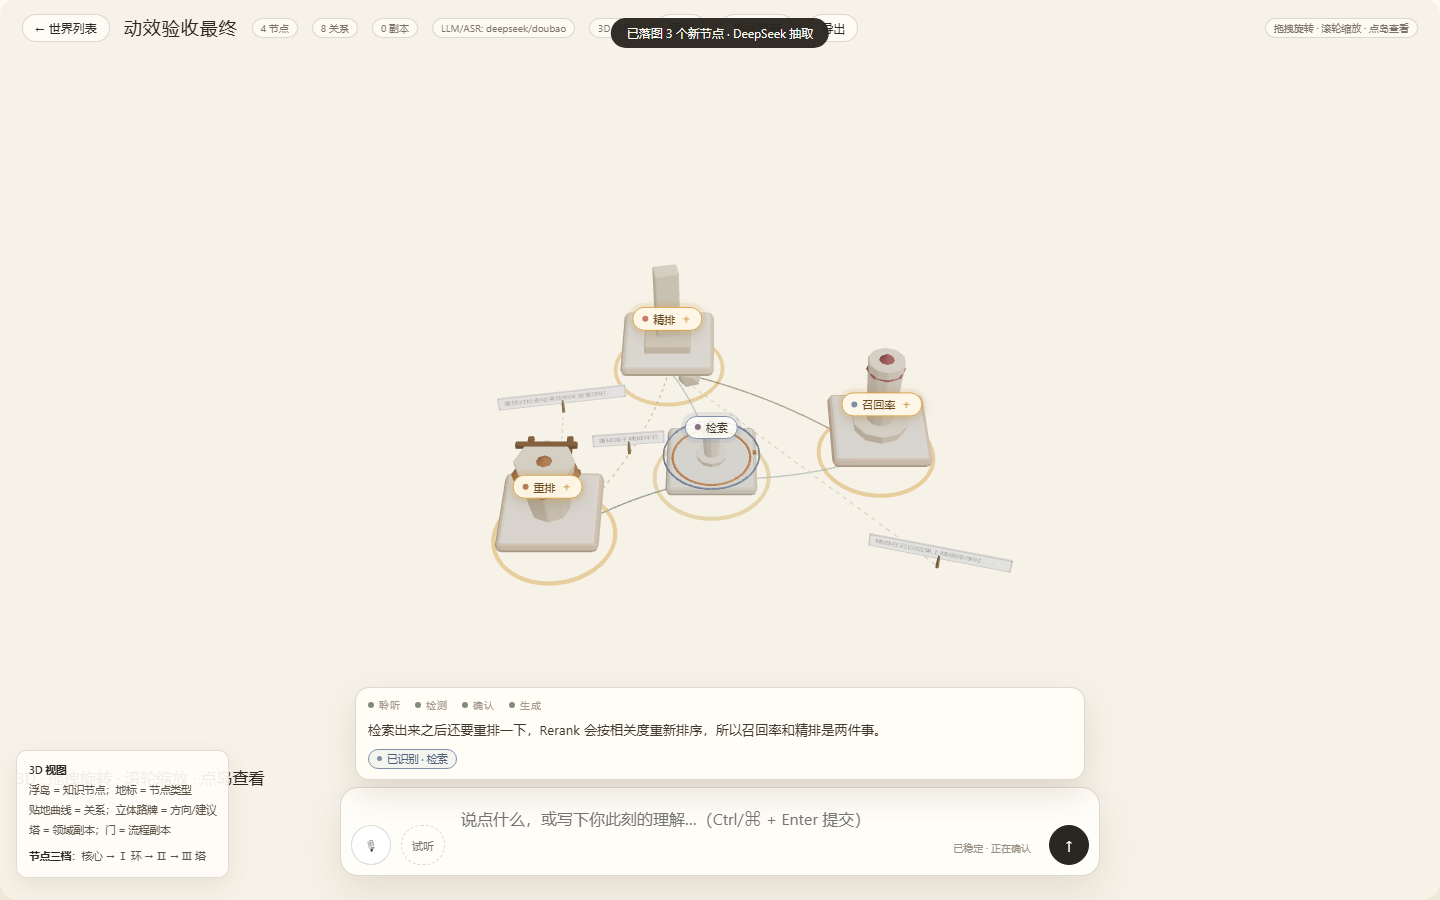
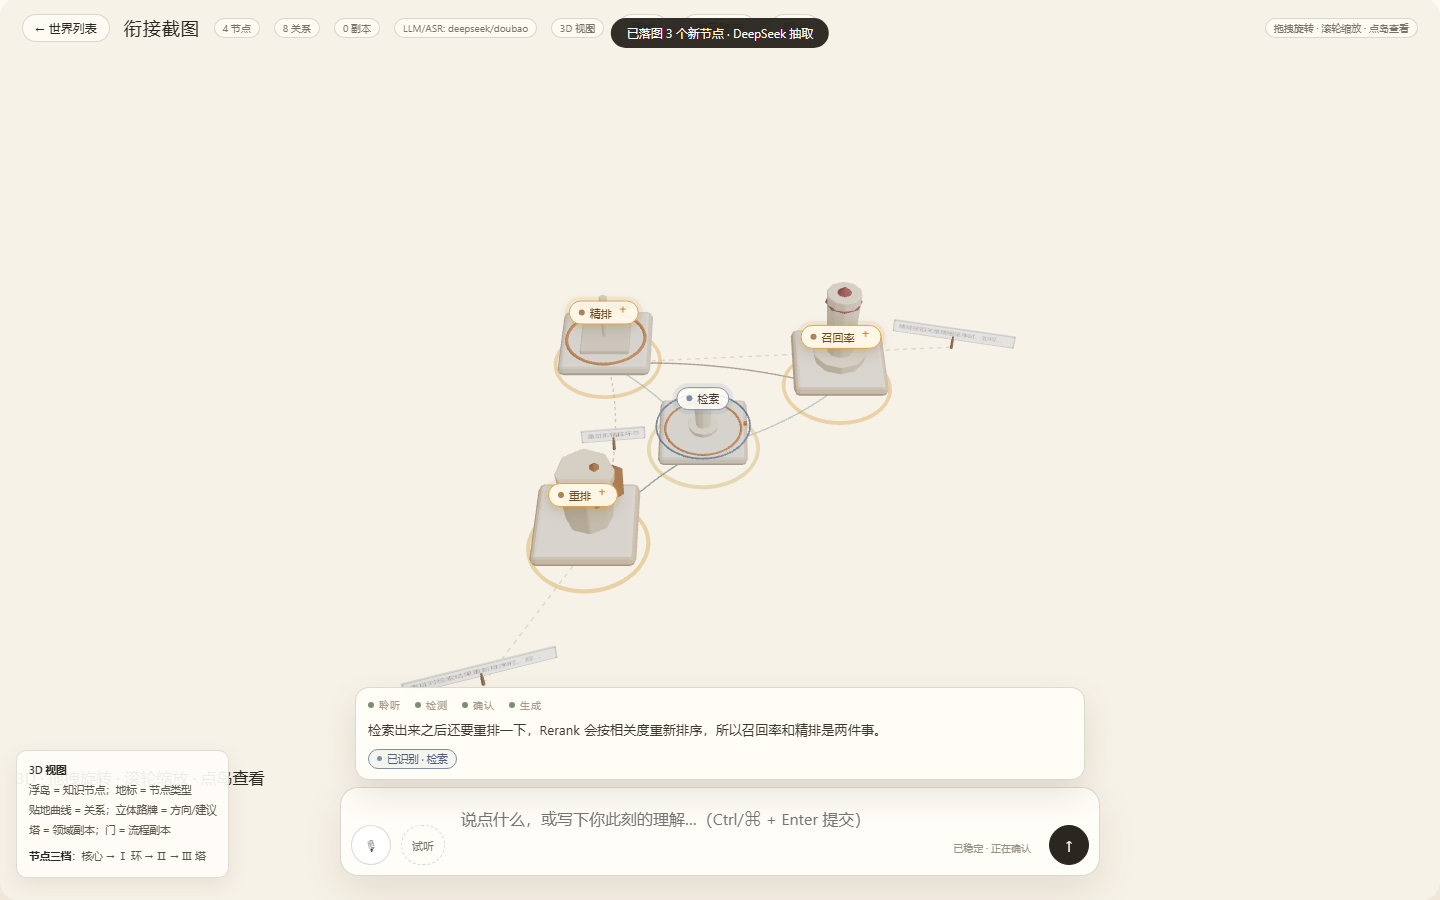
fix(ui): 候选 ghost 到新节点的起飞/落位衔接动画

diff --git a/web/src/components/World3D.tsx b/web/src/components/World3D.tsx
@@ -1,4 +1,4 @@
-import { Suspense, useEffect, useMemo, useRef, useState } from "react";
+import { Suspense, useEffect, useMemo, useRef, useState } from "react";
 import { Canvas, useFrame, useThree } from "@react-three/fiber";
 import { Html, Line, OrbitControls, useGLTF } from "@react-three/drei";
 import * as THREE from "three";
@@ -51,34 +51,47 @@ function Island({
   onOpen,
   appearing,
   mentioned,
+  spawnFrom,
 }: {
   position: [number, number, number];
   node: any;
   onOpen: () => void;
   appearing?: boolean;
   mentioned?: boolean;
+  spawnFrom?: [number, number, number];
 }) {
   const [hover, setHover] = useState(false);
   const ref = useRef<THREE.Group>(null);
+  const motionRef = useRef<THREE.Group>(null);
   const ringRef = useRef<THREE.Mesh>(null);
   const born = useRef<number | null>(null);
   const seed = hash(node.id);
   const accent = ACCENTS[seed % ACCENTS.length];
   const tier = node.tier ?? 0;
   const pulse = Boolean(appearing || mentioned);
+  const deltaX = spawnFrom ? spawnFrom[0] - position[0] : 0;
+  const deltaZ = spawnFrom ? spawnFrom[2] - position[2] : 0;
 
   useFrame((state, dt) => {
     if (!ref.current) return;
     if (appearing) {
       if (born.current === null) born.current = state.clock.elapsedTime;
       const age = state.clock.elapsedTime - born.current;
-      const t = Math.min(1, age / 0.9);
+      const t = Math.min(1, age / 1.2);
       const ease = 1 - Math.pow(1 - t, 3);
       const s = 0.02 + ease * 1.0;
       ref.current.scale.setScalar(s * (hover ? 1.08 : 1));
       ref.current.position.y = -90 * (1 - ease);
+      if (motionRef.current) {
+        motionRef.current.position.x = deltaX * (1 - ease);
+        motionRef.current.position.z = deltaZ * (1 - ease);
+      }
     } else {
       ref.current.position.y = THREE.MathUtils.lerp(ref.current.position.y, 0, Math.min(1, dt * 6));
+      if (motionRef.current) {
+        motionRef.current.position.x = THREE.MathUtils.lerp(motionRef.current.position.x, 0, Math.min(1, dt * 5));
+        motionRef.current.position.z = THREE.MathUtils.lerp(motionRef.current.position.z, 0, Math.min(1, dt * 5));
+      }
       const target = hover ? 1.1 : 1;
       ref.current.scale.lerp(new THREE.Vector3(target, target, target), Math.min(1, dt * 8));
     }
@@ -107,30 +120,32 @@ function Island({
         onOpen();
       }}
     >
-      <group ref={ref}>
-        <Suspense fallback={null}>
-          <Model url={islandModelUrl(node.name ?? "", node.id)} target={120} tint={accent} />
-        </Suspense>
-        {tier >= 1 && (
-          <mesh rotation={[-Math.PI / 2, 0, 0]} position={[0, 3, 0]}>
-            <torusGeometry args={[tier >= 3 ? 70 : 60, 1.3, 8, 48]} />
-            <meshStandardMaterial color={accent} transparent opacity={0.85} />
-          </mesh>
-        )}
-        {pulse && (
-          <mesh ref={ringRef} rotation={[-Math.PI / 2, 0, 0]} position={[0, 4, 0]}>
-            <torusGeometry args={[68, 2.4, 8, 48]} />
-            <meshBasicMaterial color={appearing ? "#e0a458" : "#d8b46a"} transparent opacity={0.55} depthWrite={false} />
-          </mesh>
-        )}
+      <group ref={motionRef}>
+        <group ref={ref}>
+          <Suspense fallback={null}>
+            <Model url={islandModelUrl(node.name ?? "", node.id)} target={120} tint={accent} />
+          </Suspense>
+          {tier >= 1 && (
+            <mesh rotation={[-Math.PI / 2, 0, 0]} position={[0, 3, 0]}>
+              <torusGeometry args={[tier >= 3 ? 70 : 60, 1.3, 8, 48]} />
+              <meshStandardMaterial color={accent} transparent opacity={0.85} />
+            </mesh>
+          )}
+          {pulse && (
+            <mesh ref={ringRef} rotation={[-Math.PI / 2, 0, 0]} position={[0, 4, 0]}>
+              <torusGeometry args={[68, 2.4, 8, 48]} />
+              <meshBasicMaterial color={appearing ? "#e0a458" : "#d8b46a"} transparent opacity={0.55} depthWrite={false} />
+            </mesh>
+          )}
+        </group>
+        <Html center position={[0, 92, 0]} zIndexRange={[30, 0]} style={{ pointerEvents: "none" }}>
+          <div className={"n3d-label" + (appearing ? " new" : "") + (mentioned ? " mentioned" : "")}>
+            <span className="dot" style={{ background: accent }} />
+            {node.name}
+            {appearing ? <span className="spark">＋</span> : null}
+          </div>
+        </Html>
       </group>
-      <Html center position={[0, 92, 0]} zIndexRange={[30, 0]} style={{ pointerEvents: "none" }}>
-        <div className={"n3d-label" + (appearing ? " new" : "") + (mentioned ? " mentioned" : "")}>
-          <span className="dot" style={{ background: accent }} />
-          {node.name}
-          {appearing ? <span className="spark">＋</span> : null}
-        </div>
-      </Html>
     </group>
   );
 }
@@ -362,24 +377,27 @@ function CameraFit({ points }: { points: [number, number, number][] }) {
   const signature = points.length;
   useEffect(() => {
     if (!points.length) return;
-    let minX = Infinity, maxX = -Infinity, minZ = Infinity, maxZ = -Infinity;
-    for (const [x, , z] of points) {
-      minX = Math.min(minX, x);
-      maxX = Math.max(maxX, x);
-      minZ = Math.min(minZ, z);
-      maxZ = Math.max(maxZ, z);
-    }
-    const cx = (minX + maxX) / 2;
-    const cz = (minZ + maxZ) / 2;
-    const size = Math.max(maxX - minX, maxZ - minZ, 600);
-    const dist = Math.max(1250, size * 1.55);
-    camera.position.set(cx, dist * 0.95, cz + dist * 0.95);
-    camera.lookAt(cx, 0, cz);
-    camera.updateProjectionMatrix();
-    if (controls?.target) {
-      controls.target.set(cx, 0, cz);
-      controls.update?.();
-    }
+    const timer = window.setTimeout(() => {
+      let minX = Infinity, maxX = -Infinity, minZ = Infinity, maxZ = -Infinity;
+      for (const [x, , z] of points) {
+        minX = Math.min(minX, x);
+        maxX = Math.max(maxX, x);
+        minZ = Math.min(minZ, z);
+        maxZ = Math.max(maxZ, z);
+      }
+      const cx = (minX + maxX) / 2;
+      const cz = (minZ + maxZ) / 2;
+      const size = Math.max(maxX - minX, maxZ - minZ, 600);
+      const dist = Math.max(1250, size * 1.55);
+      camera.position.set(cx, dist * 0.95, cz + dist * 0.95);
+      camera.lookAt(cx, 0, cz);
+      camera.updateProjectionMatrix();
+      if (controls?.target) {
+        controls.target.set(cx, 0, cz);
+        controls.update?.();
+      }
+    }, 1000);
+    return () => window.clearTimeout(timer);
   }, [signature, camera, controls]);
   return null;
 }
@@ -394,6 +412,7 @@ export default function World3D() {
   const newNodeIds = useStore((s) => s.newNodeIds);
   const mentions = useStore((s) => s.mentions);
   const ghosts = useStore((s) => s.ghosts);
+  const spawnGhosts = useStore((s) => s.spawnGhosts);
   const focusId = useStore((s) => s.focusId);
 
   const { cx, cy, scale } = useMemo(() => {
@@ -412,6 +431,14 @@ export default function World3D() {
     0,
     (y - cy) * scale,
   ];
+
+  const anchorNode = nodes.find((n) => n.id === focusId) ?? nodes[0];
+  const ghostPos = (i: number): [number, number, number] | undefined => {
+    if (!anchorNode) return undefined;
+    const x = anchorNode.x + 190 + (i % 3) * 120;
+    const y = anchorNode.y + (i % 2 === 0 ? -110 : 120) + Math.floor(i / 3) * 130;
+    return posOf(x, y);
+  };
 
   const nodePos = useMemo(() => {
     const m = new Map<string, THREE.Vector3>();
@@ -449,22 +476,25 @@ export default function World3D() {
           shadow-mapSize-width={2048}
           shadow-mapSize-height={2048}
         />
-        {nodes.map((n) => (
-          <Island
-            key={n.id}
-            position={posOf(n.x, n.y)}
-            node={n}
-            onOpen={() => openNode(n.id)}
-            appearing={newNodeIds.includes(n.id)}
-            mentioned={mentions.includes(n.id)}
-          />
-        ))}
+        {nodes.map((n) => {
+          const appearing = newNodeIds.includes(n.id);
+          const spawnIdx = appearing ? spawnGhosts.findIndex((g) => g.name === n.name) : -1;
+          return (
+            <Island
+              key={n.id}
+              position={posOf(n.x, n.y)}
+              node={n}
+              onOpen={() => openNode(n.id)}
+              appearing={appearing}
+              mentioned={mentions.includes(n.id)}
+              spawnFrom={spawnIdx >= 0 ? ghostPos(spawnIdx) : undefined}
+            />
+          );
+        })}
         {ghosts.map((g, i) => {
-          const anchor = nodes.find((n) => n.id === focusId) ?? nodes[0];
-          if (!anchor) return null;
-          const x = anchor.x + 190 + (i % 3) * 120;
-          const y = anchor.y + (i % 2 === 0 ? -110 : 120) + Math.floor(i / 3) * 130;
-          return <GhostIsland key={`${g.name}-${i}`} position={posOf(x, y)} name={g.name} role={g.role} />;
+          const p = ghostPos(i);
+          if (!p) return null;
+          return <GhostIsland key={`${g.name}-${i}`} position={p} name={g.name} role={g.role} />;
         })}
         {edges.map((e) => {
           if (e.kind === "direction") {

diff --git a/web/src/store.ts b/web/src/store.ts
@@ -45,6 +45,7 @@ type State = {
   streamText: string;
   mentions: string[];
   ghosts: Ghost[];
+  spawnGhosts: Ghost[];
   stage: StreamStage;
   newNodeIds: string[];
   toast: string;
@@ -95,6 +96,7 @@ export const useStore = create<State>((set, getState) => ({
   streamText: "",
   mentions: [],
   ghosts: [],
+  spawnGhosts: [],
   stage: "idle",
   newNodeIds: [],
   toast: "",
@@ -132,6 +134,7 @@ export const useStore = create<State>((set, getState) => ({
       streamText: "",
       mentions: [],
       ghosts: [],
+      spawnGhosts: [],
       stage: "idle",
       newNodeIds: [],
     });
@@ -176,7 +179,8 @@ export const useStore = create<State>((set, getState) => ({
   async extract(text) {
     if (!getState().world) return;
     const before = new Set(getState().nodes.map((n) => n.id));
-    set({ busy: true, stage: "generating", newNodeIds: [] });
+    const ghostsBefore = getState().ghosts;
+    set({ busy: true, stage: "generating", newNodeIds: [], spawnGhosts: ghostsBefore });
     try {
       const p = await send<any>(`/api/worlds/${getState().world!.id}/extract`, "POST", {
         text,
@@ -190,6 +194,7 @@ export const useStore = create<State>((set, getState) => ({
         directions: p.directions ?? getState().directions,
         newNodeIds: newIds,
         ghosts: [],
+        spawnGhosts: ghostsBefore,
         stage: "done",
         busy: false,
       });
@@ -197,6 +202,7 @@ export const useStore = create<State>((set, getState) => ({
         if (getState().stage === "done") set({ stage: "idle" });
       }, 2400);
       window.setTimeout(() => set({ newNodeIds: [] }), 3800);
+      window.setTimeout(() => set({ spawnGhosts: [] }), 3400);
       const n = p.createdNodes?.length ?? newIds.length;
       getState().showToast(
         n ? `已落图 ${n} 个新节点 · ${p.provider === "mock" ? "mock 抽取" : "DeepSeek 抽取"}` : "已记录，没有新实体",
@@ -300,5 +306,5 @@ export const useStore = create<State>((set, getState) => ({
   setMentions: (ids) => set({ mentions: ids }),
   setGhosts: (ghosts) => set({ ghosts }),
   setStage: (stage) => set({ stage }),
-  clearStream: () => set({ partial: "", streamText: "", mentions: [], ghosts: [], newNodeIds: [], stage: "idle" }),
+  clearStream: () => set({ partial: "", streamText: "", mentions: [], ghosts: [], spawnGhosts: [], newNodeIds: [], stage: "idle" }),
 }));

diff --git a/docs/design/streaming-voice-generation.md b/docs/design/streaming-voice-generation.md
@@ -1,4 +1,4 @@
-# 流式语音生成：交互、动效与实现
+# 流式语音生成：交互、动效与实现
 
 日期：2026-11-16
 状态：已接入真实前端（dev 可运行），不是纯文档方案。
@@ -136,3 +136,27 @@ t=done   labels=["检索","重排＋","召回率＋","精排＋"]
 ---
 
 *本文记录已实现的流式语音交互与动效；最终生成链路仍是现有 extract，anchor-first 只用于预览。*
+
+
+---
+
+## 9. 候选 → 节点的衔接（2026-11-16 修正）
+
+第一版的问题：ghost 候选消失后，新节点在服务端布局位置"另起"，看起来像凭空出现。
+
+修正：
+
+1. `extract` 开始时把当前 ghosts 快照到 `spawnGhosts`；
+2. 新节点与 ghost 按名字匹配；
+3. 新节点从 **ghost 所在世界坐标** 开始，1.2s 内 ease-out 飞到最终布局位置；
+4. 同时画一条从 ghost 位置到最终位置的虚线光轨；
+5. ghost 在节点出现的瞬间隐藏，避免两个同名对象并存；
+6. 相机 fit 延后 1s，等节点飞到位再框视野；
+7. `spawnGhosts` 3.4s 后清理。
+
+对应代码：
+
+- `web/src/store.ts`：`spawnGhosts`、extract 时快照；
+- `web/src/components/World3D.tsx`：`Island` 的 `spawnFrom`、`motionRef`、光轨 `Line`、`CameraFit` 延迟。
+
+效果：用户看到的是"候选实体 → 从候选位置长出节点 → 飞到最终位置"，而不是候选消失、别处冒出一个节点。
